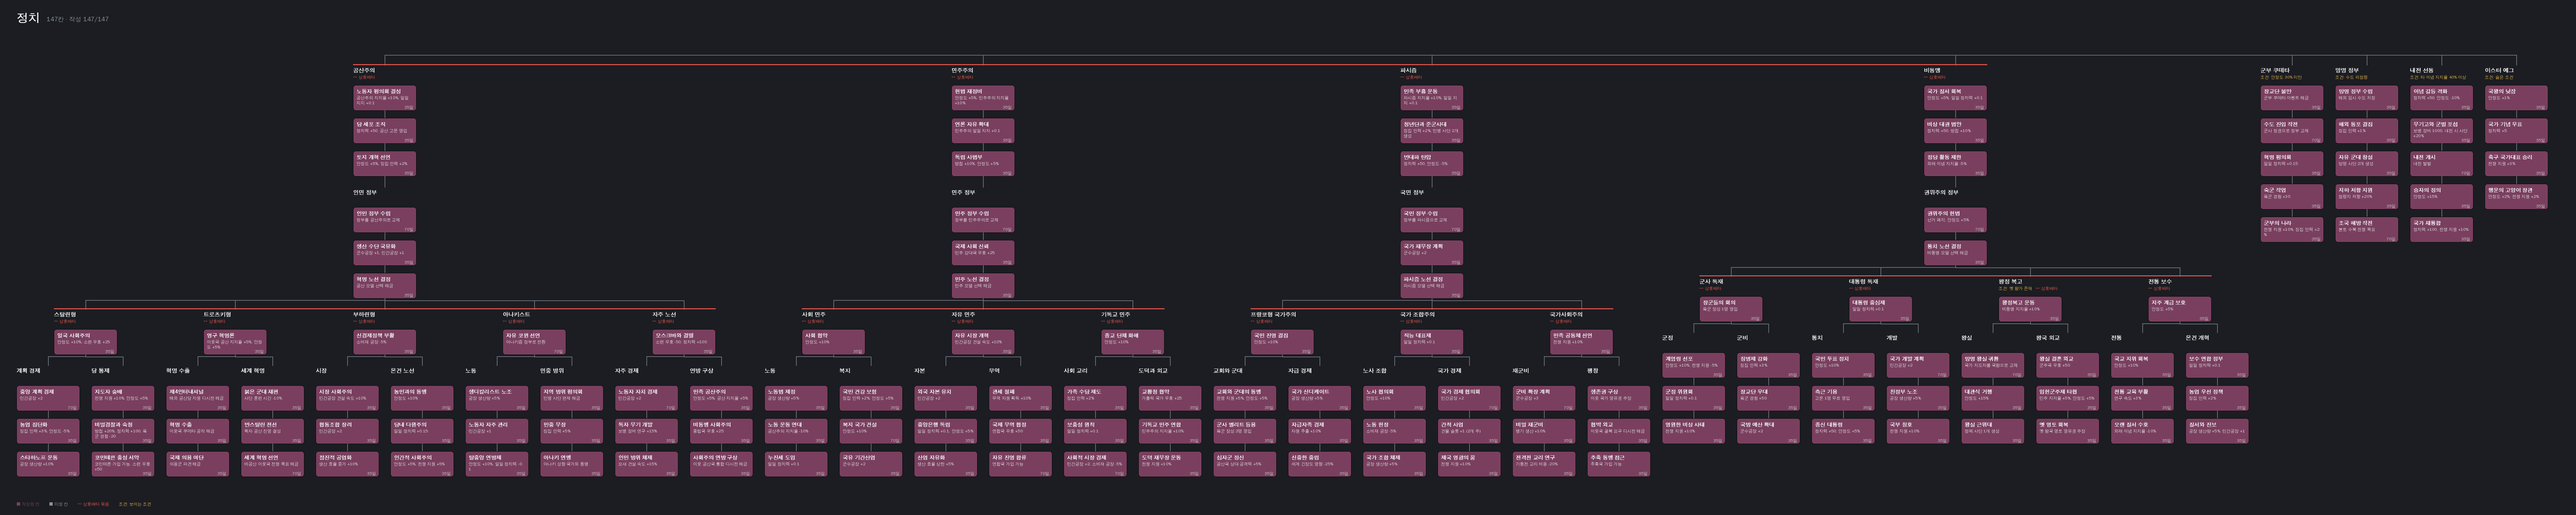
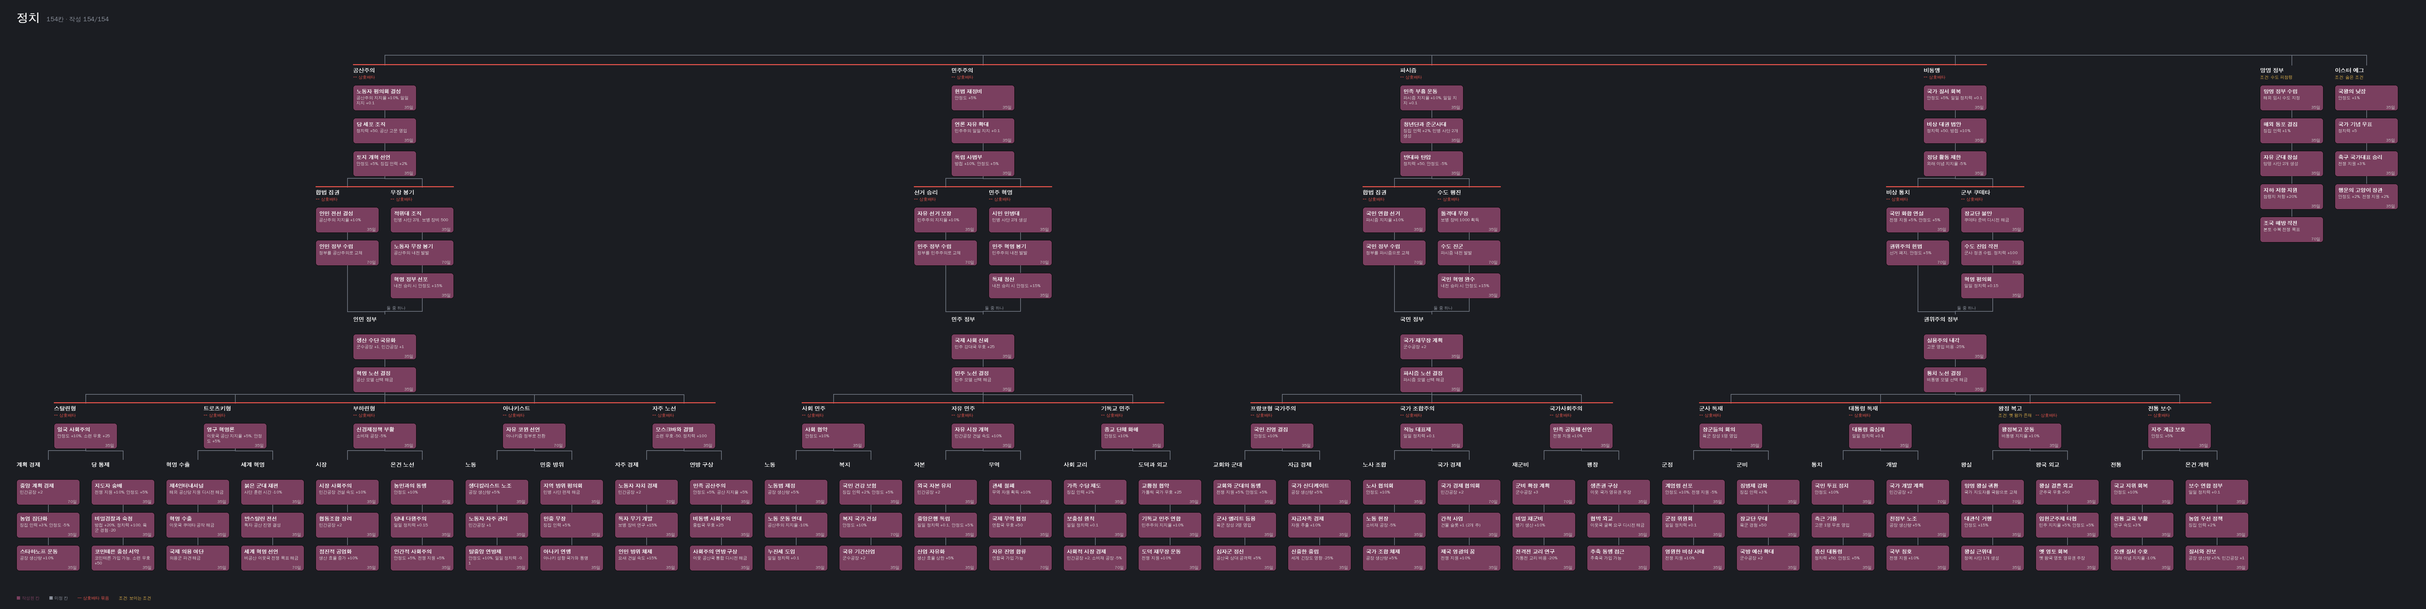
Give each ideology a legal or civil-war route to power
The standalone hidden coup and civil-war paths are replaced by a
mutually exclusive route under every ideology: legal power or an armed
rising that starts that ideology's civil war (the non-aligned rising is
the military coup). Both routes join into the same government focuses.

The data format gains joins: 'after' may list several groups, meaning
any one of them unlocks the group. check.py validates every listed id,
and render.py places a join below all its parents and centres child
groups under their parent.

Claude-Session: https://claude.ai/code/session_01EV9WLLkUNfyAmE79ST4UtP

diff --git a/design/generic_tree/render.py b/design/generic_tree/render.py
@@ -93,18 +93,41 @@ def load():
 
 # ---------------------------------------------------------------- 배치
 
+def parents_of(g):
+    """after 는 id 하나이거나, '이 중 하나 완료' 를 뜻하는 id 목록이다."""
+    a = g["after"]
+    return [] if not a else ([a] if isinstance(a, str) else list(a))
+
+
+def size(g):
+    return len(g["focuses"]) or g["target"]
+
+
 def layout(groups):
-    """소갈래마다 (가운데 열, 머리 y) 를 정한다. 자식 소갈래는 부모 아래에 나란히 놓는다."""
+    """소갈래마다 (가운데 열, 머리 y) 를 정한다. 자식 소갈래는 부모 아래에 나란히 놓는다.
+
+    after 가 목록인 소갈래(합류)는 그 부모들의 공통 부모 밑에 두되,
+    부모들이 모두 끝난 높이 아래 줄에 따로 놓는다.
+    """
+    by_id = {g["id"]: g for g in groups}
     children = {g["id"]: [] for g in groups}
+    joins = {g["id"]: [] for g in groups}
     roots = []
     for g in groups:
-        (children[g["after"]] if g["after"] else roots).append(g)
+        ps = parents_of(g)
+        if not ps:
+            roots.append(g)
+        elif len(ps) == 1:
+            children[ps[0]].append(g)
+        else:
+            joins[by_id[ps[0]]["after"]].append(g)
 
     span = {}
 
     def measure(g):
-        kids = children[g["id"]]
-        span[g["id"]] = max(1, sum(measure(k) for k in kids))
+        normal = sum(measure(k) for k in children[g["id"]])
+        joined = sum(measure(k) for k in joins[g["id"]])
+        span[g["id"]] = max(1, normal, joined)
         return span[g["id"]]
 
     for r in roots:
@@ -112,13 +135,19 @@ def layout(groups):
 
     pos = {}
 
+    def end_y(g):
+        return pos[g["id"]][1] + HEADER + size(g) * ROW + 10
+
     def place(g, left, y):
-        n = len(g["focuses"]) or g["target"]
         pos[g["id"]] = (left + (span[g["id"]] - 1) / 2, y)
-        child_y = y + HEADER + n * ROW + 10
-        x = left
+        child_y = y + HEADER + size(g) * ROW + 10
+        x = left + (span[g["id"]] - sum(span[k["id"]] for k in children[g["id"]])) / 2
         for k in children[g["id"]]:
             place(k, x, child_y)
+            x += span[k["id"]]
+        x = left
+        for k in joins[g["id"]]:
+            place(k, x, max(end_y(by_id[p]) for p in parents_of(k)) + 14)
             x += span[k["id"]]
 
     left = 0
@@ -205,22 +234,24 @@ def render_branch(branch):
             focus = g["focuses"][i] if g["focuses"] else None
             draw_node(d, node_box(col, ny), focus, color, i + 1, n)
 
-        if g["after"]:
-            parent = by_id[g["after"]]
-            pcol, py = pos[parent["id"]]
-            pn = len(parent["focuses"]) or parent["target"]
-            pbottom = py + HEADER + (pn - 1) * ROW + NODE_H
+        ps = parents_of(g)
+        for pid in ps:
+            parent = by_id[pid]
+            pcol, py = pos[pid]
+            pbottom = py + HEADER + (size(parent) - 1) * ROW + NODE_H
             pcx = MARGIN + pcol * COL + NODE_W / 2
-            mid = pbottom + 6
+            mid = pbottom + 6 if len(ps) == 1 else y - 8
             d.line((pcx, pbottom, pcx, mid), fill=LINE, width=2)
             d.line((pcx, mid, cx, mid), fill=LINE, width=2)
             d.line((cx, mid, cx, y), fill=LINE, width=2)
+        if len(ps) > 1:
+            d.text((cx + 6, y - 26), "둘 중 하나", font=F_SMALL, fill=MUTED)
 
     # 상호배타: 같은 태그를 가진 형제 소갈래의 머리를 빨간 선으로 묶는다
     tags = {}
     for g in groups:
         if g["exclusive"]:
-            tags.setdefault((g["exclusive"], g["after"]), []).append(g)
+            tags.setdefault((g["exclusive"], str(g["after"])), []).append(g)
     for members in tags.values():
         if len(members) < 2:
             continue
@@ -250,10 +281,11 @@ def summary_rows(groups):
     가장 가까운 보이는 조상의 칸 수에 합친다. (그룹, 깊이, 작성 칸, 목표 칸) 목록.
     """
     by_id = {g["id"]: g for g in groups}
-    parents = {g["after"] for g in groups if g["after"]}
+    parents = {p for g in groups for p in parents_of(g)}
     depth = {}
     for g in groups:
-        depth[g["id"]] = depth[g["after"]] + 1 if g["after"] else 0
+        ps = parents_of(g)
+        depth[g["id"]] = depth[ps[0]] + 1 if ps else 0
 
     def shown(g):
         return depth[g["id"]] <= 1 or g["exclusive"] or g["id"] in parents
@@ -262,7 +294,7 @@ def summary_rows(groups):
     for g in groups:
         o = g
         while not shown(o):
-            o = by_id[o["after"]]
+            o = by_id[parents_of(o)[0]]
         owner[g["id"]] = o["id"]
 
     rows = []

diff --git a/design/generic_tree/check.py b/design/generic_tree/check.py
@@ -46,8 +46,10 @@ def main():
             if gid in group_ids:
                 errors.append(f"{where}: 소갈래 id 중복 ({group_ids[gid]})")
             group_ids[gid] = path.name
-            if g.get("after") is not None and g["after"] not in local_ids:
-                errors.append(f"{where}: after '{g['after']}' 가 같은 파일에 없음")
+            after = g.get("after")
+            for a in ([] if after is None else [after] if isinstance(after, str) else after):
+                if a not in local_ids:
+                    errors.append(f"{where}: after '{a}' 가 같은 파일에 없음")
 
             if g.get("target", 0) > MAX_CHAIN:
                 errors.append(f"{where}: 소갈래가 {g['target']}칸. 트리가 아래로 늘어지지 않게 {MAX_CHAIN}칸 이하로 쪼갠다")
